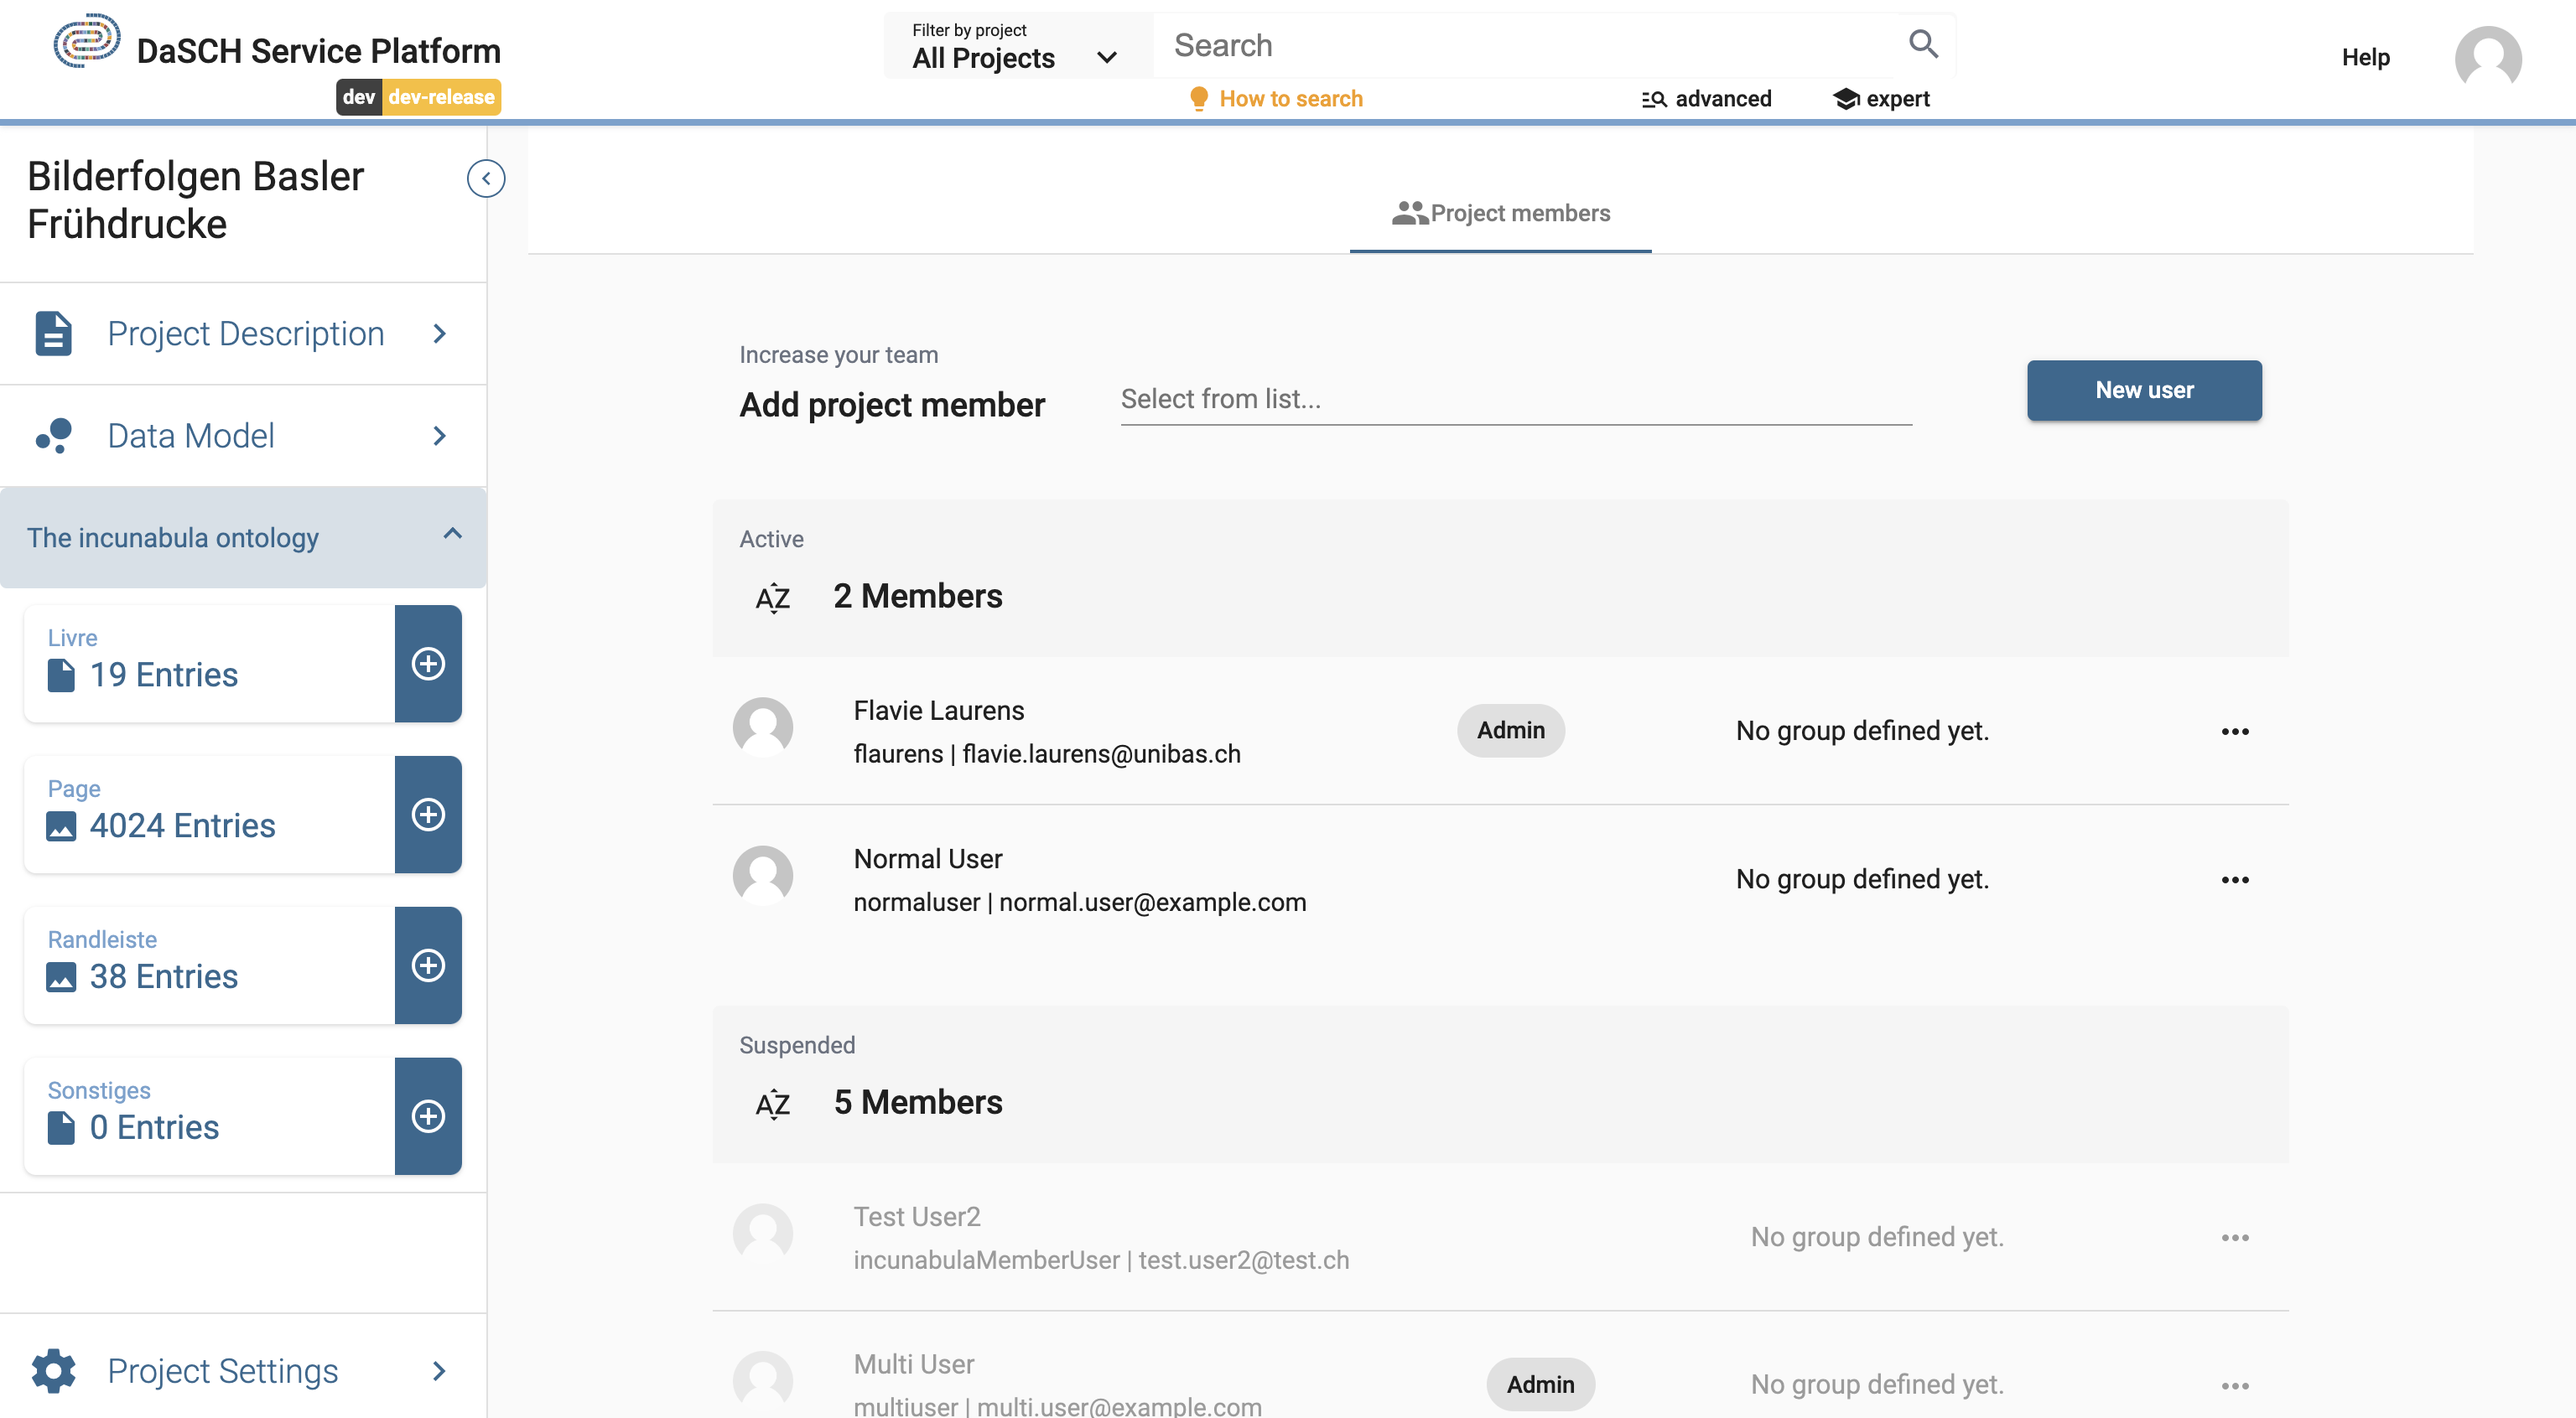
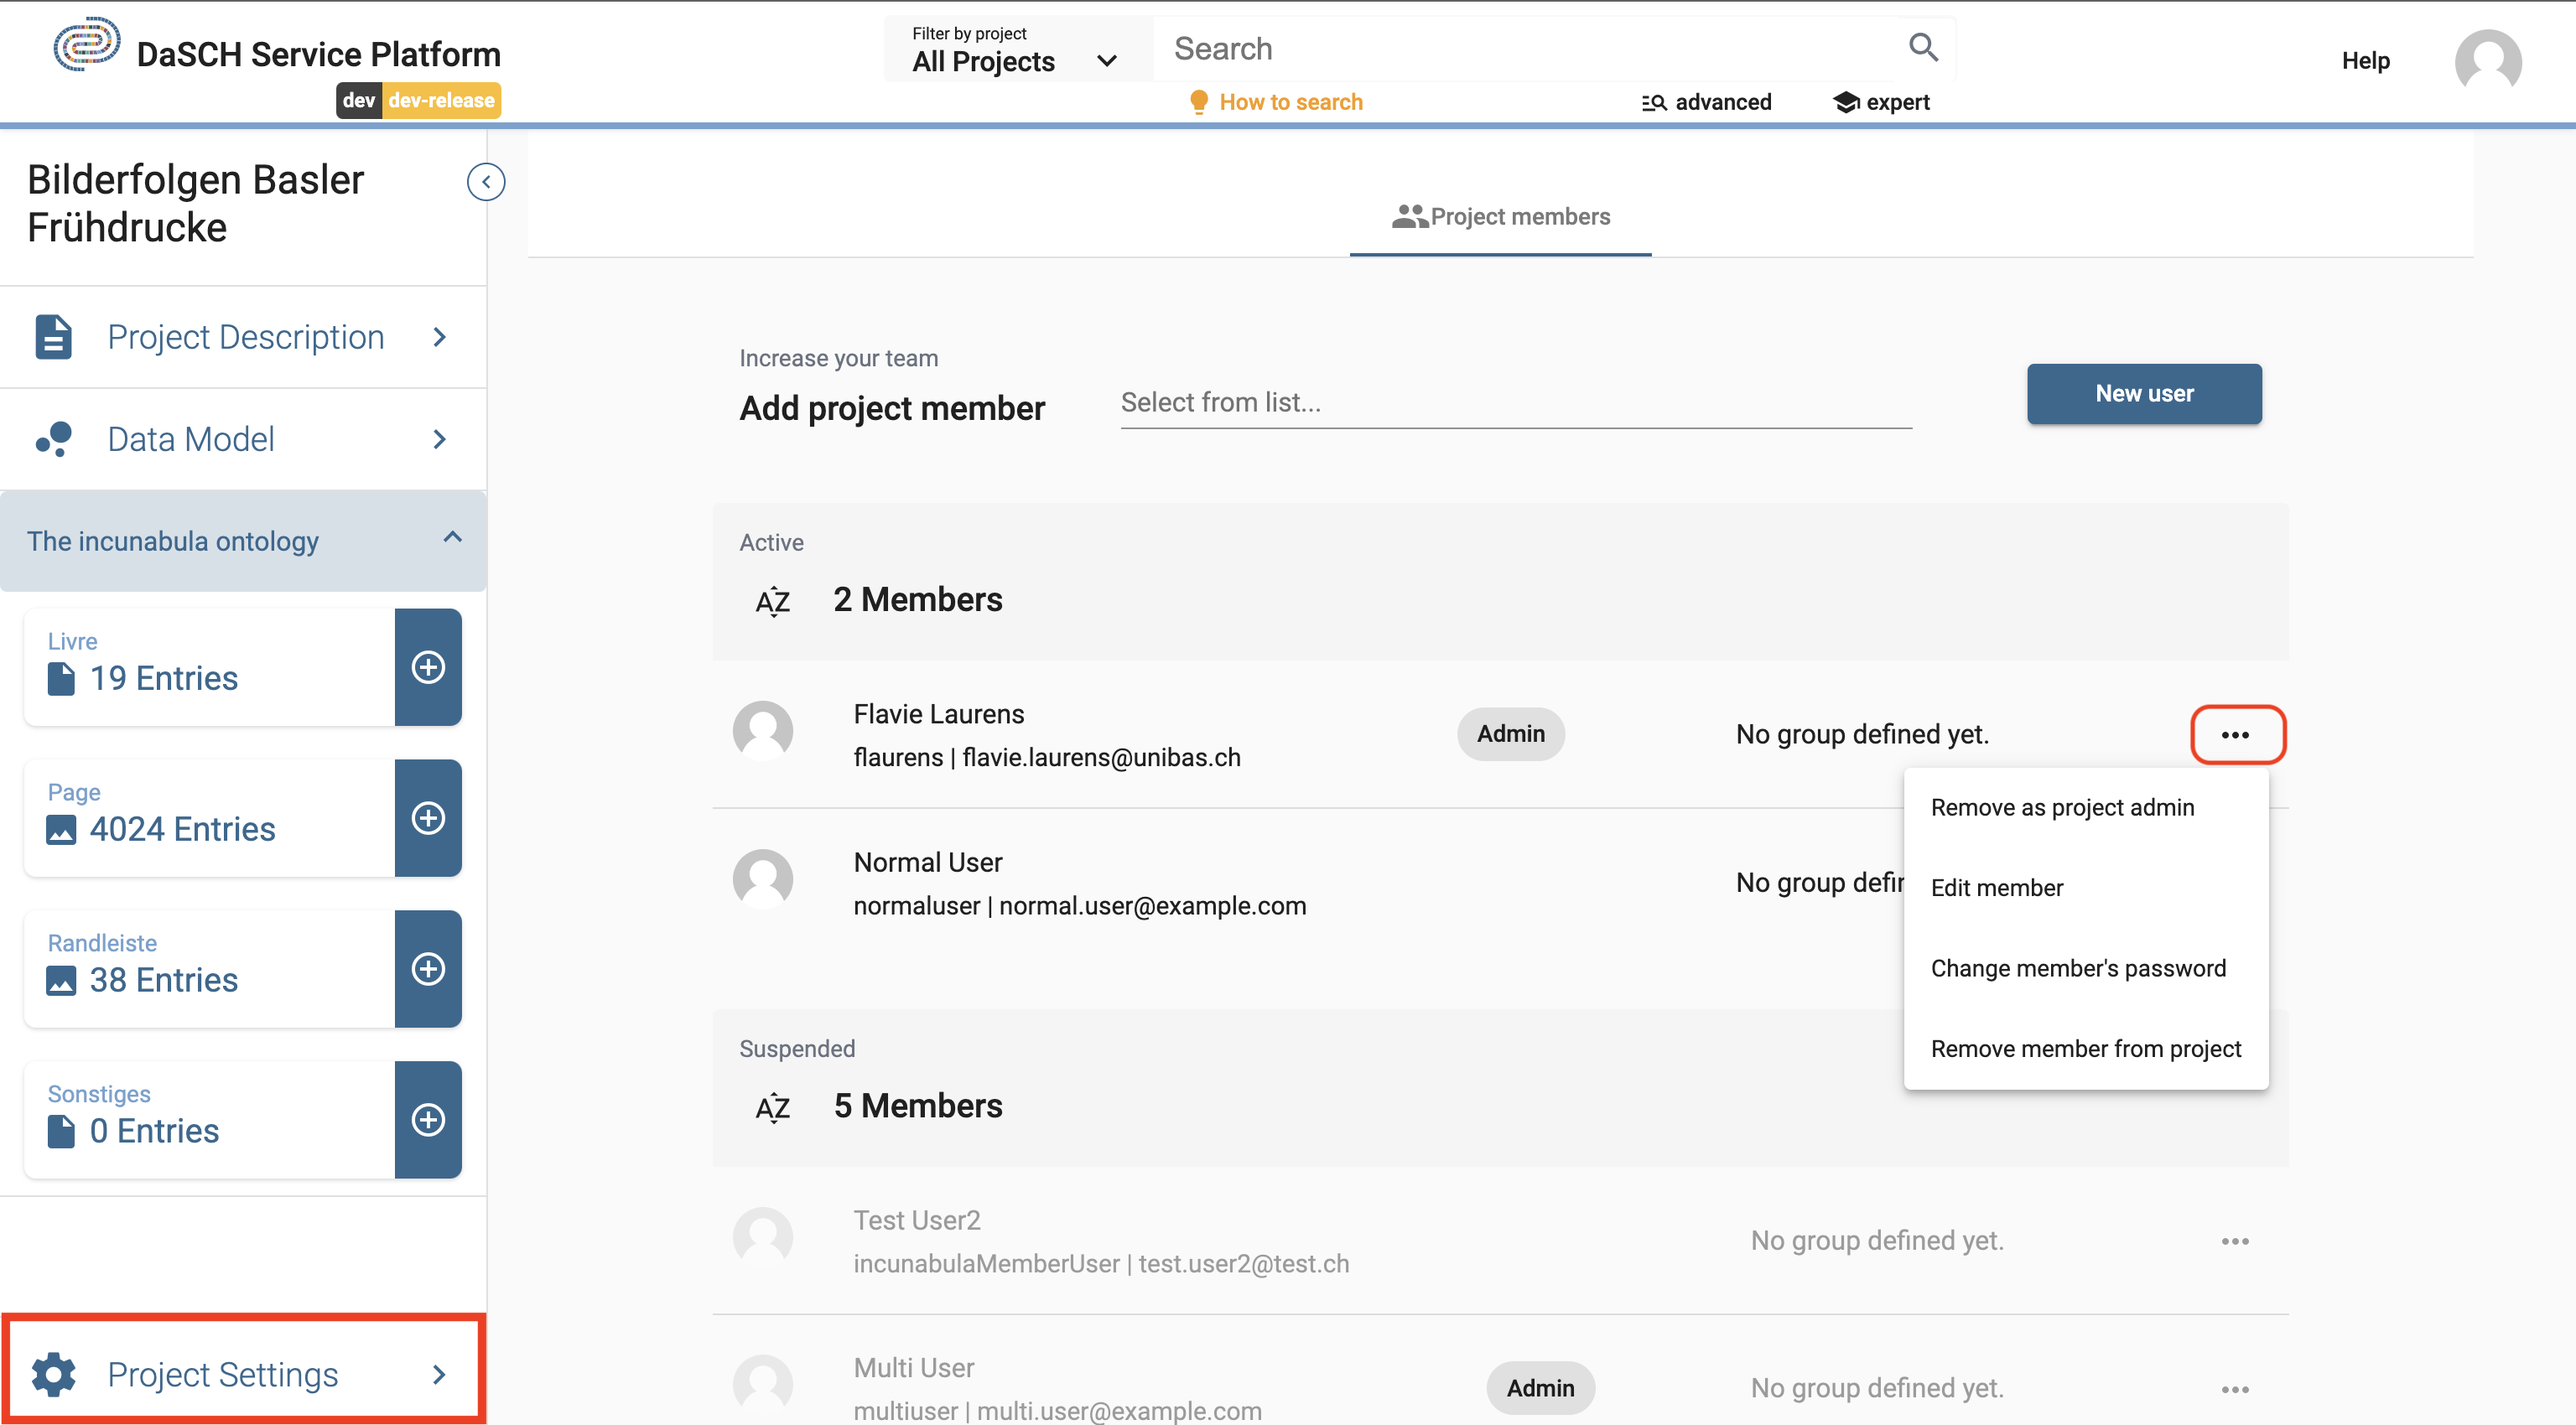
docs: Update project text + replace screenshot

diff --git a/docs/user-guide/project.md b/docs/user-guide/project.md
@@ -3,15 +3,16 @@
 ## Project
 
 Once you are [logged in](index.md#login), the main dashboard displays all the projects hosted at DaSCH.
-Projects can be deactivated only by a system admin and are tagged. No more changes are allowed.
+
+Active projects are tagged with the status "Active". Projects tagged as "Deactivated" can no longer be edited. Only a system admin are allowed to change the project status.
 
 ![Project list and project menu](../assets/images/dashboard.png)*<https://admin.dasch.swiss/dashboard> - DaSCH dashboard*
 
- By clicking on the button `Browse Data`, you go to the data browser page. You get access to the project information, the data model (if you are logged in), and the project settings (if you are project admin or system admin).
+ By clicking on the button `Browse Data`, you go to the selected project data browser page. You get access to the project information, the data model (if you are logged in), and the project settings (if you are a project admin or a system admin).
 
 ### Create a new project
 
-Only system administrators can create a new research project, from the dashboard or the page System Administration > All projects.
+Only a system admin can create a new research project, from the dashboard or the page System Administration > All projects.
 
 ![Create a new project](../assets/images/project-create-new.png)<center>*Form to create a new project.*</center>
 
@@ -19,7 +20,7 @@ This currently requires essential information such as the project name, a shortn
 
 ### Define your project
 
-From the data browser page, as a project admin (or system admin), you can access:
+From the data browser page, as a project admin (or a system admin), you can access:
 
 * **Project Description**: define your project information
 * **Data Model**: define your data model and the lists of controlled vocabularies
@@ -32,7 +33,7 @@ From the data browser page, as a project admin (or system admin), you can access
 
 ## Project members
 
-As a system administrator or a project administrator, you can add users as project members. A user menu with different actions is accessible for each member of the project (the three-dot icon to the right side of the user line). The admin can grant another user as project admin (or remove this permission), edit user's information, change user's password if forgotten, and remove a user from the project.
+As a project admin (or a system admin), you can add users as project members. The admin can grant another user as project admin (or remove this permission), edit user's information, change user's password if forgotten, and remove a user from the project by clicking on the three-dot icon to the right side of the user line.
 
 ![Collaboration page](../assets/images/project-settings.png)*<https://admin.dasch.swiss/project/0803/collaboration> - Project members page where project admin and system admin can add new user to the team.*
 
@@ -40,7 +41,7 @@ As a project member, you can:
 
 * View the project information
 * View the data model
-* Get the list of resources with the number of entries
+* Get the list of resources with the number of entries, and click on the tiles to make a search by resource
 
 ---
 
